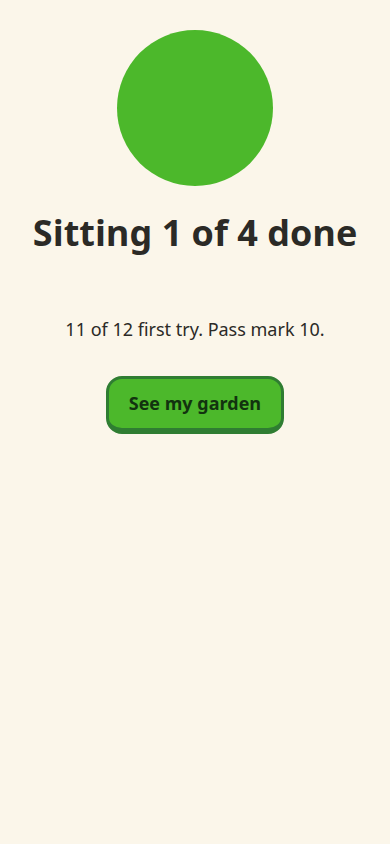
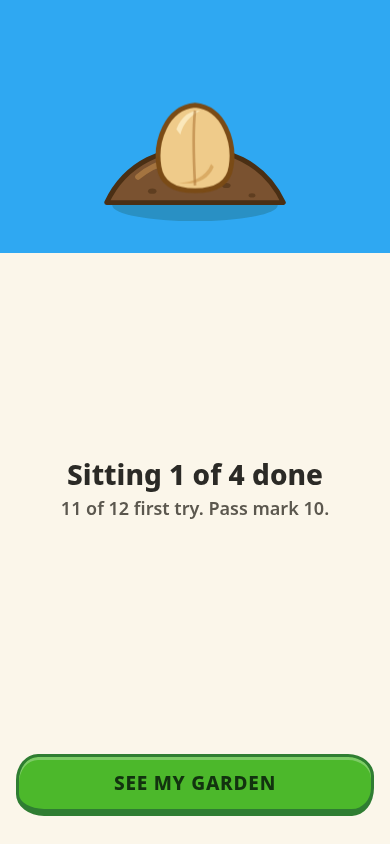
M1: critic capture from live site, shots/m1 pairs (sprout vs combo, teach vs question, home vs landing, wrong carried over)

diff --git a/tools/critic_capture.py b/tools/critic_capture.py
@@ -5,7 +5,7 @@ import json, os, shutil, sys, time
 from playwright.sync_api import sync_playwright
 ROOT = os.path.dirname(os.path.dirname(os.path.abspath(__file__))); os.chdir(ROOT)
 URL = sys.argv[sys.argv.index("--url") + 1] if "--url" in sys.argv else "https://orenda-project.github.io/sound-garden/"
-OUT = "shots/m0"; BAR = "research/shots/teardown"; os.makedirs(OUT, exist_ok=True)
+OUT = "shots/m0"; OUT1 = "shots/m1"; BAR = "research/shots/teardown"; os.makedirs(OUT, exist_ok=True); os.makedirs(OUT1, exist_ok=True)
 Q = "Which screen makes it clearer what to do next? Answer A, B, or equal, then one sentence."
 PAIRS = [  # (id, our screen, bar source file); bar names are the ones in M0-CHECKLIST section 9
     ("01", "our-01-seed.png", "duo-landing-m.png", "bar-01-landing.png"),
@@ -18,7 +18,8 @@ with sync_playwright() as p:
     b = p.chromium.launch(); pg = b.new_context(viewport={"width": 390, "height": 844}).new_page()
     shot = lambda n: pg.screenshot(path=f"{OUT}/{n}")
     pg.goto(URL + "?test=1"); pg.wait_for_selector(".seed"); time.sleep(.3); shot("our-01-seed.png")
-    pg.click(".seed"); pg.wait_for_selector(".opt")
+    pg.route("**/fonts.googleapis.com/**", lambda r: r.fulfill(status=200, content_type="text/css", body=""))
+    pg.click(".seed"); pg.wait_for_selector("[data-teach-go]"); pg.click("[data-teach-go]"); pg.wait_for_selector(".opt")
     pg.locator(".opt:not([data-correct])").first.click(); pg.wait_for_selector(".fb.wrong"); time.sleep(.3); shot("our-05-wrong.png")
     pg.click(".tile.target .opt", force=True); pg.wait_for_function("!document.querySelector('.fb.wrong')", timeout=6000); pg.wait_for_selector(".opt[data-correct]"); time.sleep(.2)
     pg.click(".opt[data-correct]"); pg.wait_for_selector(".fb.right"); time.sleep(.3); shot("our-04-right.png")
@@ -31,7 +32,11 @@ with sync_playwright() as p:
         except Exception: pass
         time.sleep(.25)
     pg.wait_for_selector(".done"); time.sleep(1.8); shot("our-03-sitting-end.png")
-    pg.click(".done .btn"); pg.wait_for_selector(".home"); time.sleep(.3); shot("our-02-home.png")
+    pg.click(".done .btn"); pg.wait_for_selector(".sprout"); time.sleep(1.8); pg.screenshot(path=f"{OUT1}/our-06-sprout.png")
+    pg.click(".sprout .btn"); pg.wait_for_selector(".remind"); time.sleep(.5); pg.screenshot(path=f"{OUT1}/our-07-remind.png")
+    pg.click("[data-notnow]"); pg.wait_for_selector(".home"); time.sleep(.8); shot("our-02-home.png"); pg.screenshot(path=f"{OUT1}/our-03-home.png")
+    pg.click("[data-cta]"); pg.wait_for_selector("[data-teach-go]"); time.sleep(.8); pg.screenshot(path=f"{OUT1}/our-04-teach.png")
+    pg.goto(URL + "?test=1&demo=1#/home"); pg.reload(); pg.wait_for_selector(".home"); time.sleep(.9); pg.screenshot(path=f"{OUT1}/our-05-home-garden.png")
     b.close()
 pairs = []
 for i, ours, src, bar in PAIRS:
@@ -42,3 +47,21 @@ for i, ours, src, bar in PAIRS:
     pairs.append(dict(id=i, ours=f"{OUT}/{ours}", bar=f"{OUT}/{bar}", question=Q))
 json.dump(pairs, open(f"{OUT}/pairs.json", "w"), indent=1)
 print("wrote", len(pairs), "pairs;", ", ".join(f"{p['ours'].split('/')[-1]}={os.path.getsize(p['ours'])//1024}KB" for p in pairs))
+
+# ---- M1 pairs: criteria are clarity, delight, calm of the text area, hierarchy (BUILD.md, from M1) ----
+Q1 = "Which screen is better on (1) clarity of the next action, (2) delight, (3) calm of the text area, (4) hierarchy? Answer A or B or equal for each, then one sentence."
+M1 = [  # (id, our shot, bar source file, bar copy name)
+    ("06", "our-06-sprout.png", "duo-lesson-m-4-combo.png", "bar-06-celebration.png"),
+    ("04", "our-04-teach.png", "duo-lesson-m-1-question.png", "bar-04-question.png"),
+    ("03", "our-03-home.png", "tmtr-landing-m.png", "bar-03-landing.png"),
+]
+m1 = []
+for i, ours, src, bar in M1:
+    shutil.copy(f"{BAR}/{src}", f"{OUT1}/{bar}")
+    assert os.path.getsize(f"{OUT1}/{ours}") < 300 * 1024, ours
+    m1.append(dict(id=i, ours=f"{OUT1}/{ours}", bar=f"{OUT1}/{bar}", question=Q1))
+# pair 05 (wrong state) is carried over from M0 into the M1 blind test, as asked
+shutil.copy(f"{OUT}/our-05-wrong.png", f"{OUT1}/our-05-wrong.png"); shutil.copy(f"{OUT}/bar-05-wrong.png", f"{OUT1}/bar-05-wrong.png")
+m1.append(dict(id="05", ours=f"{OUT1}/our-05-wrong.png", bar=f"{OUT1}/bar-05-wrong.png", question="Which screen makes it clearer what to do next? Answer A, B, or equal, then one sentence."))
+json.dump(m1, open(f"{OUT1}/pairs.json", "w"), indent=1)
+print("wrote", len(m1), "m1 pairs")
